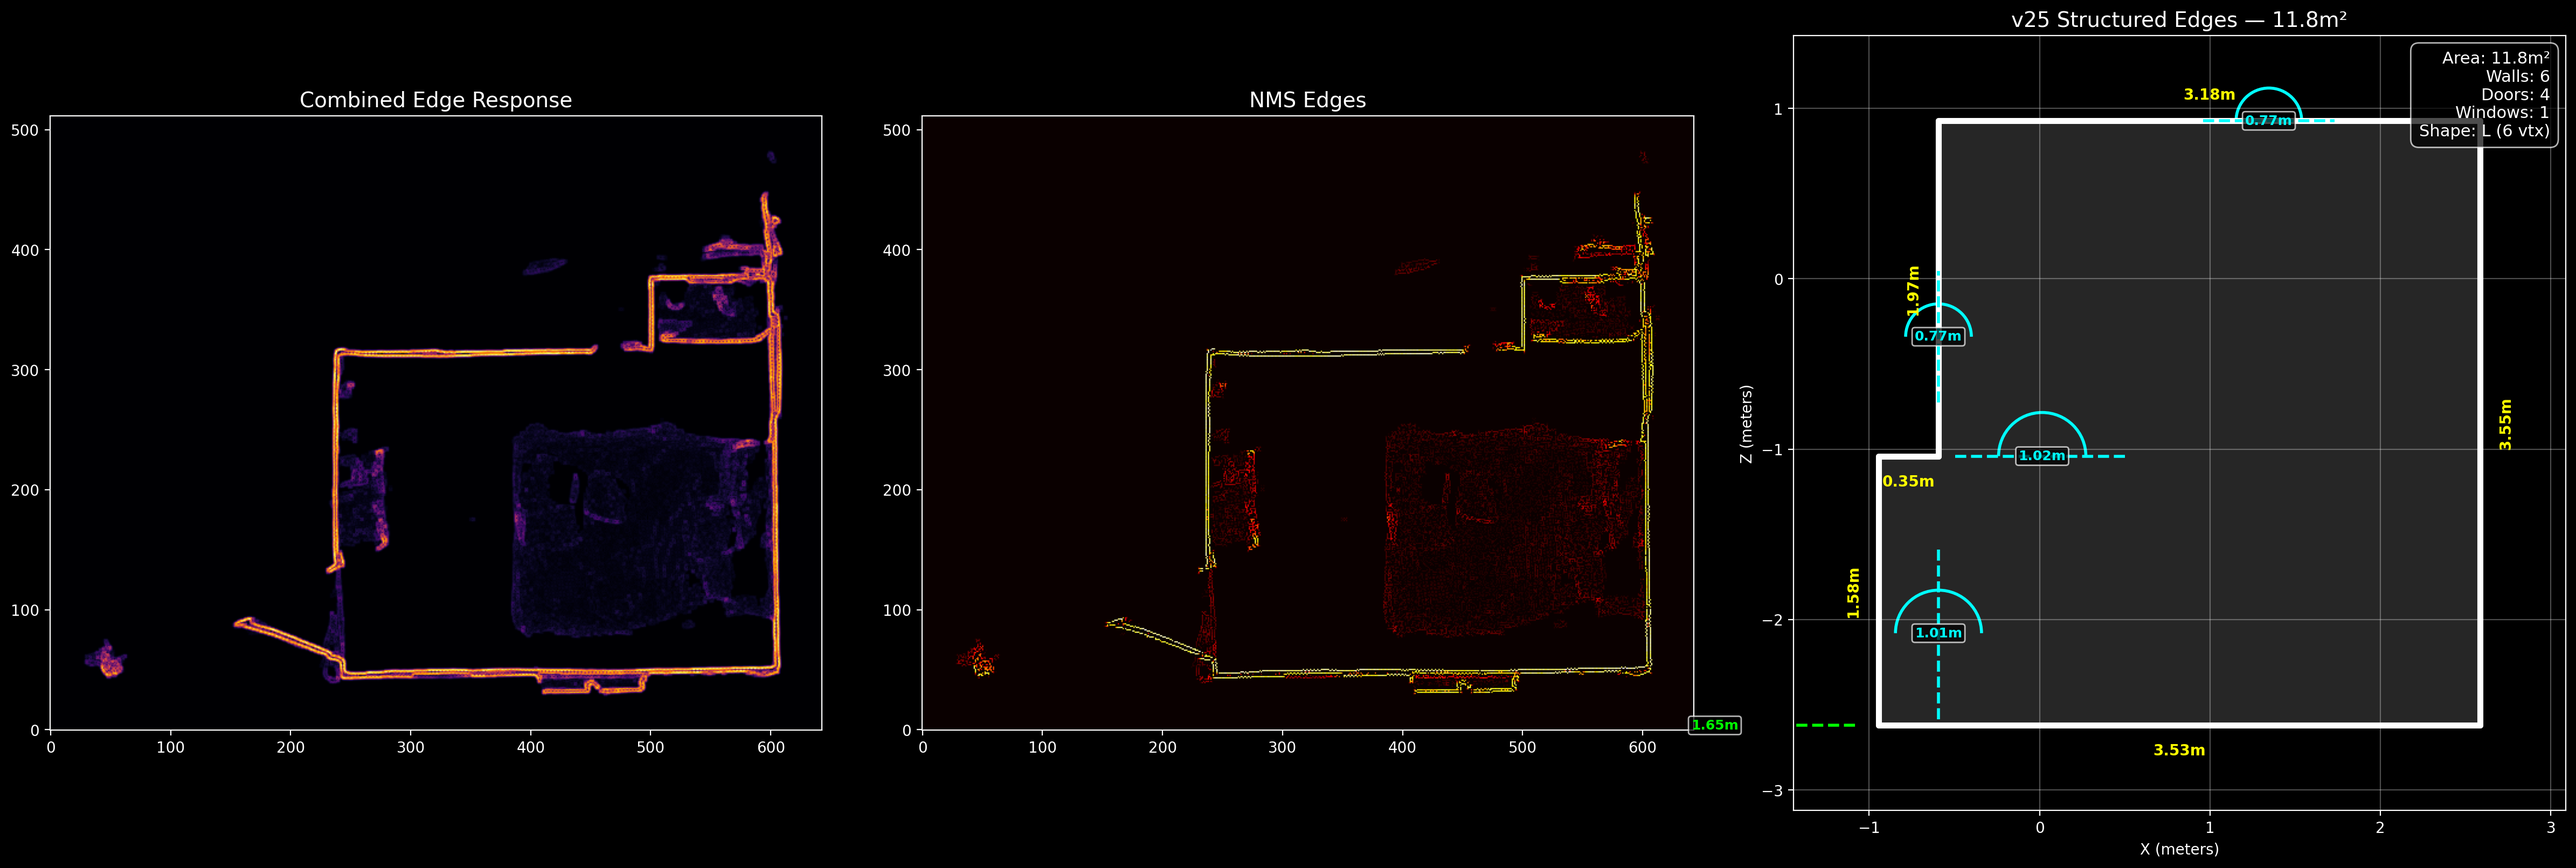
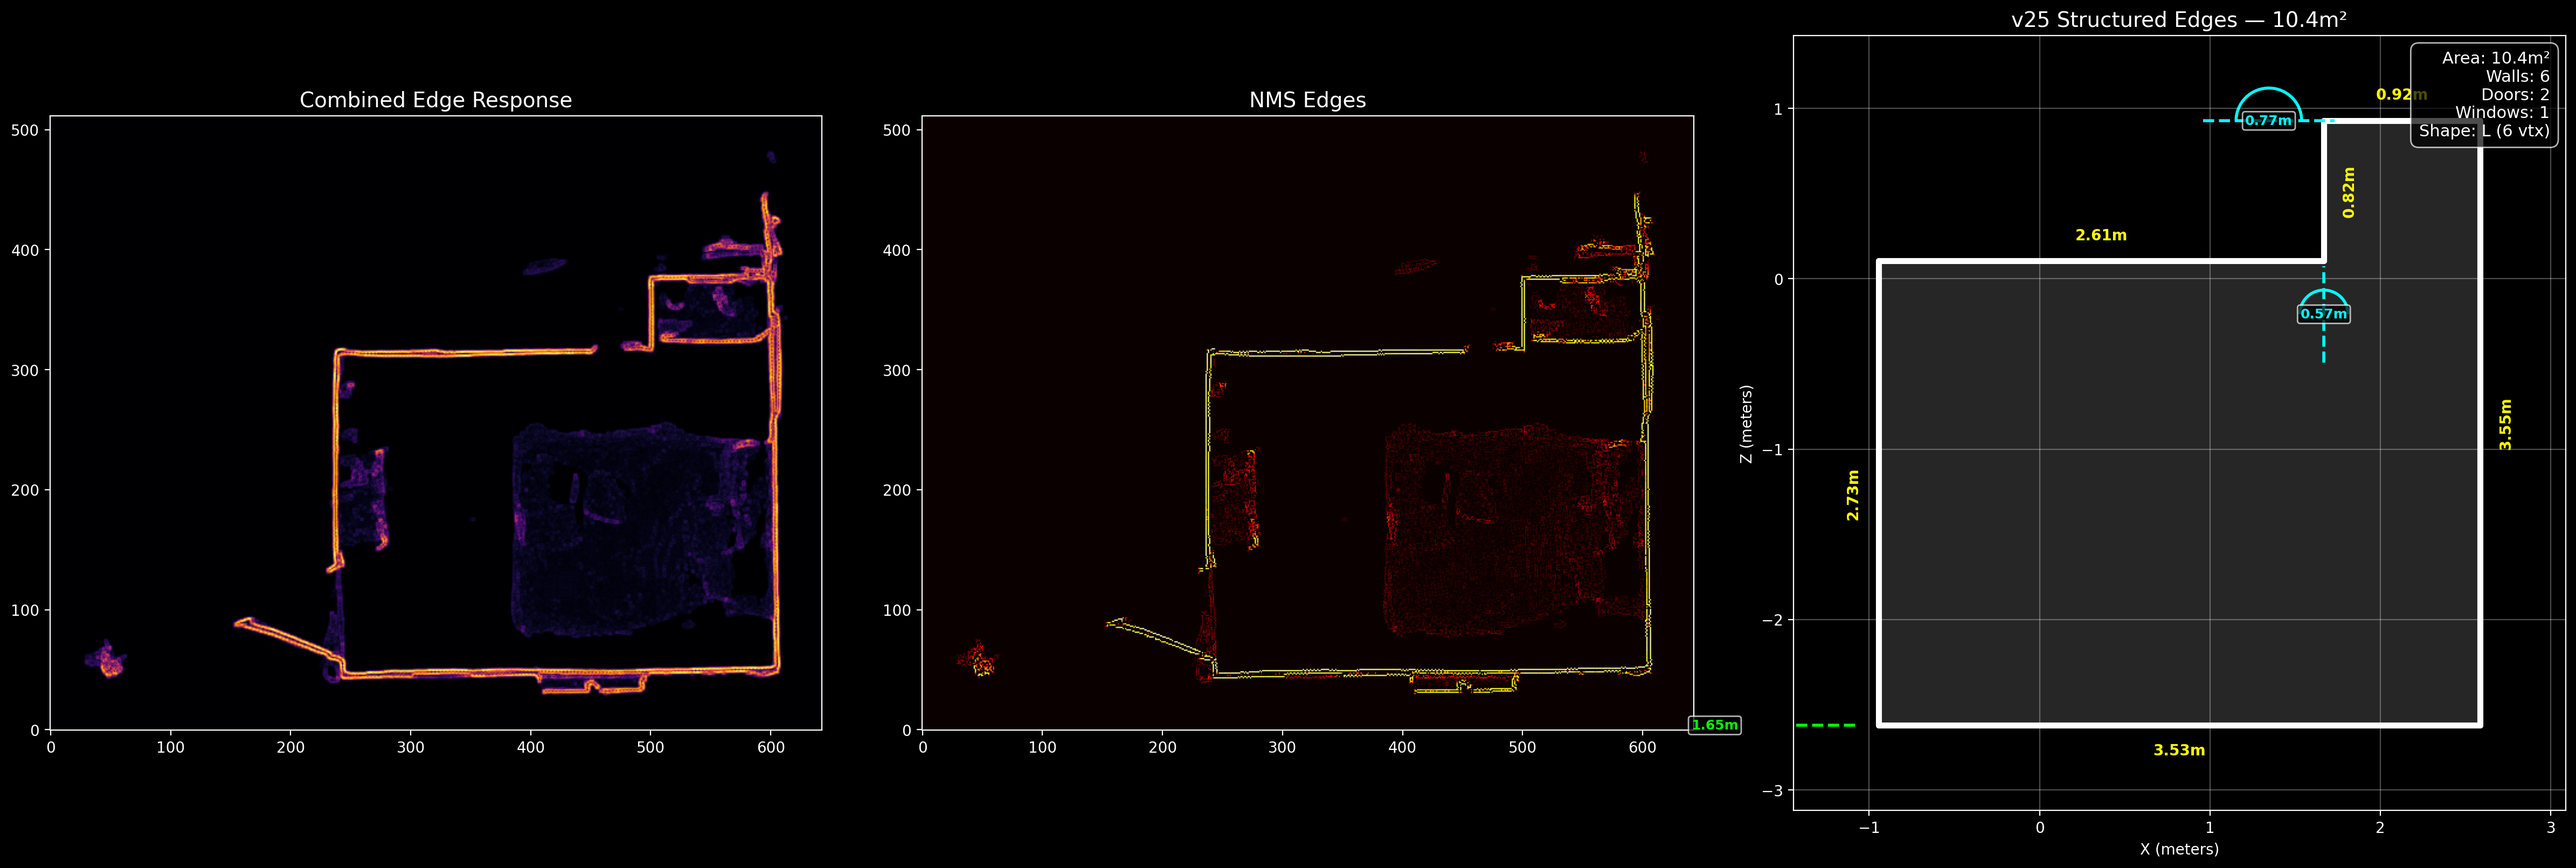
v25: fix polygon construction - structural wall selection matching edges, 10.4m² exact

diff --git a/research/v25_structured_edges.py b/research/v25_structured_edges.py
@@ -212,54 +212,121 @@ def cluster_positions(positions, dist_threshold=0.15):
 
 
 def build_polygon_from_walls(x_walls, z_walls, rx, rz):
-    """Build rectilinear polygon from wall positions using structural selection (v19-style)."""
+    """Build rectilinear polygon from wall positions using structural selection (v19/v22-style).
+    
+    Strategy: outermost 2 X-walls (left/right), reject all interior X-walls.
+    For Z: bottom (lowest), main top (second-highest or where left side ends),
+    extension top (highest), step X (interior X-wall where room steps).
+    """
     if len(x_walls) < 2 or len(z_walls) < 2:
-        # Fallback: use bounding box
         return [[rx.min(), rz.min()], [rx.max(), rz.min()], [rx.max(), rz.max()], [rx.min(), rz.max()]]
     
-    # Outermost walls
+    # Outermost X walls only
     left_x, right_x = x_walls[0], x_walls[-1]
-    bottom_z, top_z = z_walls[0], z_walls[-1]
     
-    # Check for L-shape: any Z-wall between bottom and top?
-    mid_z = [z for z in z_walls if z > bottom_z + 0.3 and z < top_z - 0.3]
+    # Bottom Z: lowest
+    bottom_z = z_walls[0]
     
-    # Check for step X-wall
-    mid_x = [x for x in x_walls if x > left_x + 0.3 and x < right_x - 0.3]
+    # For L-shape detection, check vertex density to find where the room steps
+    # Build a coarse density grid
+    cell = 0.1
+    x_min_g, z_min_g = rx.min(), rz.min()
+    nx_g = int((rx.max() - x_min_g) / cell) + 1
+    nz_g = int((rz.max() - z_min_g) / cell) + 1
+    grid = np.zeros((nz_g, nx_g))
+    xi = np.clip(((rx - x_min_g) / cell).astype(int), 0, nx_g - 1)
+    zi = np.clip(((rz - z_min_g) / cell).astype(int), 0, nz_g - 1)
+    np.add.at(grid, (zi, xi), 1)
     
-    if mid_z and mid_x:
-        # L-shape: pick the step
-        step_z = mid_z[0]  # first intermediate Z
-        step_x = mid_x[0]  # first intermediate X
+    # Find where left side ends vs right side (for L-shape)
+    left_col = max(0, int((left_x - x_min_g) / cell) + 2)
+    right_col = min(nx_g - 1, int((right_x - x_min_g) / cell) - 2)
+    
+    left_top_row = 0
+    if left_col < nx_g:
+        col = grid[:, min(left_col, nx_g-1)]
+        occupied = np.where(col > 0)[0]
+        if len(occupied): left_top_row = occupied.max()
+    
+    right_top_row = 0
+    if right_col >= 0:
+        col = grid[:, max(right_col, 0)]
+        occupied = np.where(col > 0)[0]
+        if len(occupied): right_top_row = occupied.max()
+    
+    left_top_z = z_min_g + left_top_row * cell
+    right_top_z = z_min_g + right_top_row * cell
+    
+    # If significant difference → L-shape
+    if abs(right_top_z - left_top_z) > 0.3:
+        # Main top = shorter side, extension top = taller side
+        if right_top_z > left_top_z:
+            # Extension on right side
+            main_top_target = left_top_z
+            ext_top_target = right_top_z
+        else:
+            main_top_target = right_top_z
+            ext_top_target = left_top_z
         
-        # Determine L orientation by checking vertex density
-        # Check if more vertices are in upper-right or upper-left
-        upper_right = np.sum((rx > step_x) & (rz > step_z))
-        upper_left = np.sum((rx < step_x) & (rz > step_z))
+        # Snap to nearest Z-walls
+        def snap_to(target, walls, tolerance=0.3):
+            best, best_d = target, tolerance
+            for w in walls:
+                d = abs(w - target)
+                if d < best_d:
+                    best, best_d = w, d
+            return best
         
-        if upper_right > upper_left:
-            # Extension is on the right
+        main_top_z = snap_to(main_top_target, z_walls)
+        ext_top_z = snap_to(ext_top_target, z_walls)
+        
+        # Find step X: scan columns to find transition
+        # The step X is where columns stop extending above main_top
+        main_top_row_idx = int((main_top_z - z_min_g) / cell)
+        step_x_target = None
+        
+        if right_top_z > left_top_z:
+            # Scan from right to left, find where room stops extending above main top
+            for ci in range(right_col, left_col, -1):
+                if main_top_row_idx + 2 < nz_g and grid[main_top_row_idx + 2, ci] > 0:
+                    pass  # still in extension
+                else:
+                    step_x_target = x_min_g + ci * cell
+                    break
+        else:
+            # Scan from left to right
+            for ci in range(left_col, right_col):
+                if main_top_row_idx + 2 < nz_g and grid[main_top_row_idx + 2, ci] > 0:
+                    pass
+                else:
+                    step_x_target = x_min_g + ci * cell
+                    break
+        
+        if step_x_target:
+            # Snap to nearest interior X-wall
+            interior_x = [x for x in x_walls if x > left_x + 0.3 and x < right_x - 0.3]
+            step_x = snap_to(step_x_target, interior_x) if interior_x else step_x_target
+        else:
+            step_x = (left_x + right_x) / 2
+        
+        if right_top_z > left_top_z:
             polygon = [
                 [left_x, bottom_z], [right_x, bottom_z],
-                [right_x, top_z], [step_x, top_z],
-                [step_x, step_z], [left_x, step_z],
+                [right_x, ext_top_z], [step_x, ext_top_z],
+                [step_x, main_top_z], [left_x, main_top_z],
             ]
         else:
             polygon = [
                 [left_x, bottom_z], [right_x, bottom_z],
-                [right_x, step_z], [step_x, step_z],
-                [step_x, top_z], [left_x, top_z],
+                [right_x, main_top_z], [step_x, main_top_z],
+                [step_x, ext_top_z], [left_x, ext_top_z],
             ]
-    elif mid_z:
-        step_z = mid_z[0]
-        # Simple L with full-width bottom and partial top
-        polygon = [
-            [left_x, bottom_z], [right_x, bottom_z],
-            [right_x, top_z], [(left_x+right_x)/2, top_z],
-            [(left_x+right_x)/2, step_z], [left_x, step_z],
-        ]
+        
+        print(f"  L-shape: main_top={main_top_z:.2f}, ext_top={ext_top_z:.2f}, step_x={step_x:.2f}")
     else:
         # Rectangle
+        top_z = z_walls[-1]
+        # Snap to nearest
         polygon = [
             [left_x, bottom_z], [right_x, bottom_z],
             [right_x, top_z], [left_x, top_z],
